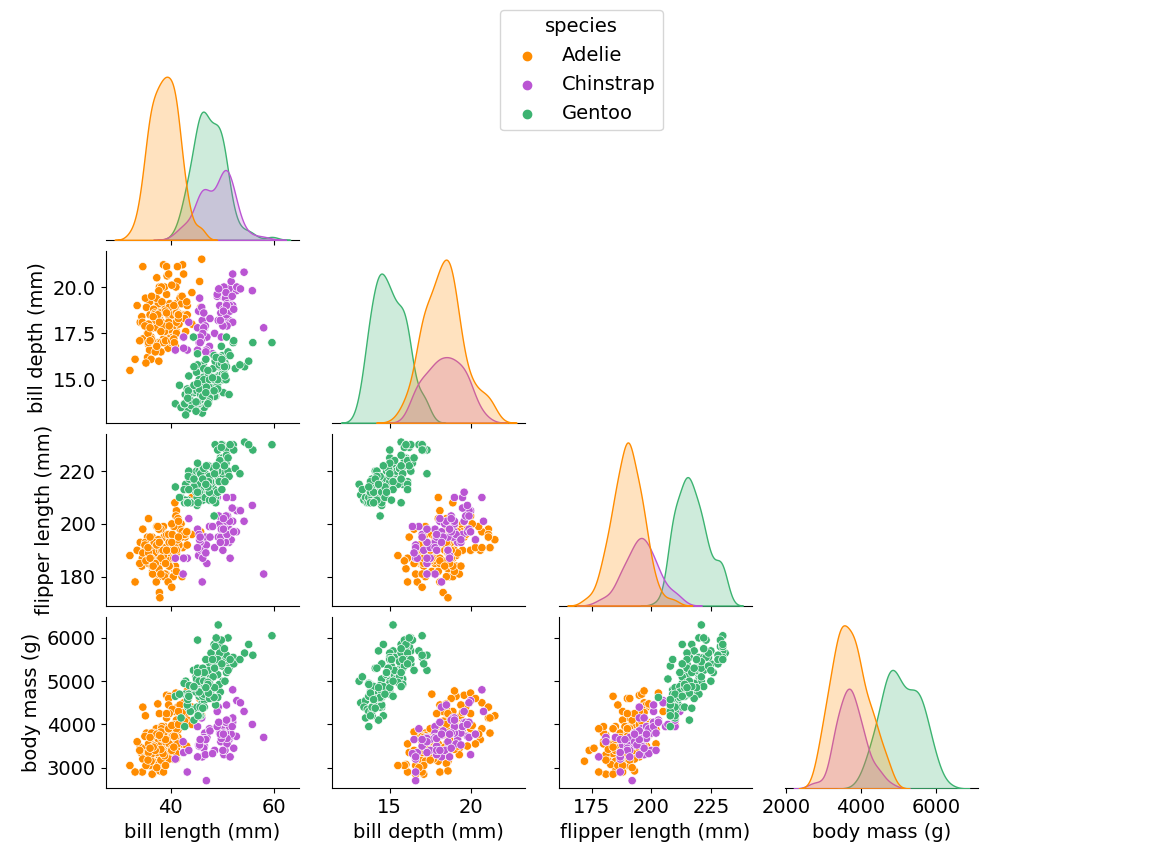
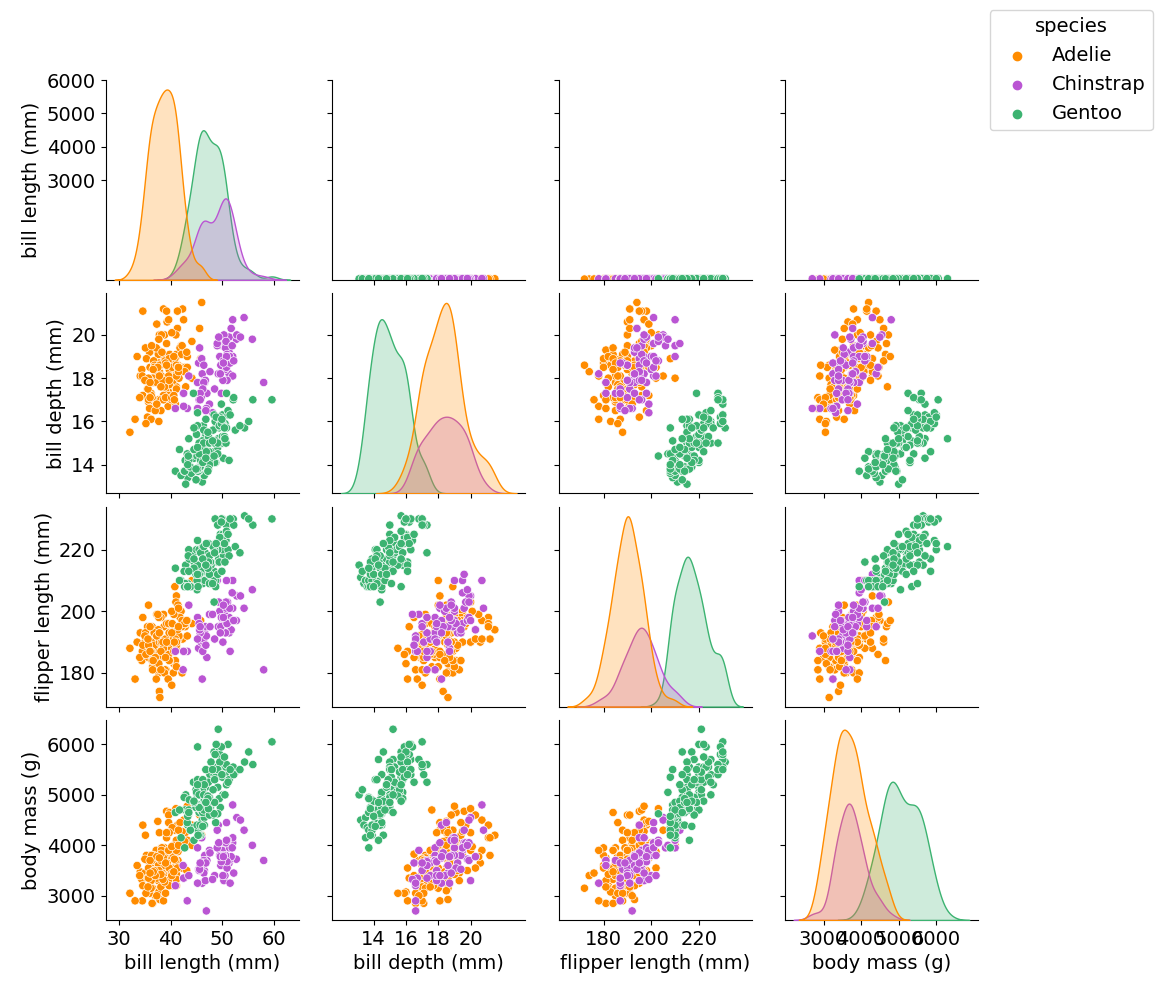
report update

diff --git a/code/num_sex.py b/code/num_sex.py
@@ -3,21 +3,113 @@ from globals import *
 # needed for dictionary
 import ast 
 
-def num_sex(local_df):
+def num_sex(local_df, custom_colors):
 
   # Create a figure and axes
   fig, axs = plt.subplots(2, 2, figsize=(12, 10))
   
   sns.set(font_scale=1)
+  
+  # set up the colors
+  # custom_colors = {'Adelie': 'darkorange', 'Chinstrap': 'mediumorchid', 'Gentoo': 'mediumseagreen'}
+
+  # palette_subplot00 = {
+  #   'Adelie': {'Male': custom_colors['Adelie'], 'Female': 'moccasin'},
+  #   'Chinstrap': {'Male': custom_colors['Adelie'], 'Female': 'moccasin'},    
+  #   'Gentoo': {'Male': custom_colors['Adelie'], 'Female': 'moccasin'}
+  # }
+
+  # palette_subplot00 = {
+  #   'Adelie_Male': 'darkorange',
+  #   'Adelie_Female': 'moccasin',
+  #   'Chinstrap_Male': 'mediumorchid',
+  #   'Chinstrap_Female': 'moccasin',
+  #   'Gentoo_Male': 'mediumseagreen',
+  #   'Gentoo_Female': 'moccasin'
+  # }
+
+  local_custom_colors = ['darkorange', 'darkorange', 'darkorange', 'moccasin', 'darkmagenta', 'mediumorchid', 'mediumseagreen', 'lightgreen']
+
+  # # Define custom colors for each species
+  # species_colors = {
+  #     'Adelie': 'darkorange',
+  #     'Chinstrap': 'mediumorchid',
+  #     'Gentoo': 'mediumseagreen'
+  # }
+
+  # sex_colors = {
+  #     'Male': 'blue',
+  #     'Female': 'moccasin'
+  # }
+
+  # # Create a dictionary to map each combination of species and sex to a color
+  # species_sex_colors = {(species, sex): (species_colors[species], sex_colors[sex]) for species in local_df['species'].unique() for sex in local_df['sex'].unique()}
+
+
+  # # Create a list of colors based on the mapping
+  # palette = [species_sex_colors[(row['species'], row['sex'])] for _, row in local_df.iterrows()]
+
+  # # Get unique species and sex values from the DataFrame
+  # unique_species = local_df['species'].unique()
+  # unique_sex = local_df['sex'].unique()
+  # print("Unique species values:", local_df['species'].unique())
+  # print("Unique sex values:", local_df['sex'].unique())
+
+  # # # Create a palette dictionary dynamically
+  # # palette_subplot00 = {}
+  # # for species in unique_species:
+  # #     palette_subplot00[species] = {}
+  # #     for sex in unique_sex:
+  # #         palette_subplot00[species][sex] = 'blue'  # Assign a default color here, you can change it later
+
+  # # Assign specific colors based on your preference
+  # # palette_subplot00['Adelie']['Male'] = 'darkorange'
+  # # palette_subplot00['Adelie']['Female'] = 'moccasin'
+  # # palette_subplot00['Chinstrap']['Male'] = 'mediumorchid'
+  # # palette_subplot00['Chinstrap']['Female'] = 'moccasin'
+  # # palette_subplot00['Gentoo']['Male'] = 'mediumseagreen'
+  # # palette_subplot00['Gentoo']['Female'] = 'moccasin'
+
+
+  # # palette_subplot00 = {
+  # #   'Adelie': {'Male': 'darkorange', 'Female': 'moccasin'},
+  # #   'Chinstrap': {'Male': 'mediumorchid', 'Female': 'moccasin'},    
+  # #   'Gentoo': {'Male': 'mediumseagreen', 'Female': 'moccasin'}
+  # # }
 
   # Plot the first boxplot on the first subplot
-  f = sns.boxplot(x=local_df.species, y=local_df.body_mass_g, hue=local_df.sex, ax=axs[0, 0])
+  # sns.boxplot(x=local_df.species, y=local_df.body_mass_g, hue=local_df.sex, palette=palette_subplot00, ax=axs[0, 0])
+  # Plot the boxplot with the custom colors
+  # sns.boxplot(x='species', y='body_mass_g', hue='sex', data=local_df, palette=palette, ax=axs[0, 0])
+  import matplotlib.patches as patches
+  ax = sns.boxplot(x='species', y='body_mass_g', hue='sex', data=local_df, ax=axs[0, 0])
+  print(ax.patches)
+
   axs[0, 0].set_title(' ', fontsize = 14)
   axs[0, 0].set_xlabel(" ", fontsize = 14, x=0.5, labelpad=0)
   axs[0, 0].set_ylabel("body mass (g)", fontsize = 15)
   axs[0, 0].set_xticklabels(axs[0, 0].get_xticklabels(), size = 15)
   axs[0, 0].set_yticks(axs[0, 0].get_yticks())
   axs[0, 0].set_yticklabels(axs[0, 0].get_yticklabels(), size = 12)
+
+  for xtick in axs[0, 0].get_xticks():
+    axs[0, 0].text(xtick,0.2,"hello", horizontalalignment='center',size='x-small',color='w',weight='semibold')
+
+#  axs[0, 0].add_patch(patches.Rectangle((0.1, 0.1), 0.5, 0.5, alpha=0.1,facecolor='red',label='Label'))
+#  centerx = centery = 0.1 + 0.5/2 # obviously use a different formula for different shapes
+  # axs[0, 0].text(0.1, 0.1, 'lalala')
+
+  # Get the number of unique species
+  num_species = len(local_df['species'].unique())
+
+  # Add labels to the boxes
+  for i, box in enumerate(ax.artists):
+      # Calculate the x position of the box
+      x = i % num_species
+      # Calculate the median value of the box
+      y = ax.lines[i * 6 + 2].get_ydata().mean()
+      # Add the label
+      ax.text(x, y, f'Box {i+1}', ha='center', va='center', color='black', fontsize=10)
 
   # Plot the second boxplot on the second subplot
   sns.boxplot(x=local_df.species, y=local_df.bill_length_mm, hue=local_df.sex, ax=axs[0, 1])

diff --git a/code/main.py b/code/main.py
@@ -49,7 +49,7 @@ clean_df = clean(df)
 # species(clean_df, custom_colors)
 
 # plot numerical features against sex
-# num_sex(clean_df)
+num_sex(clean_df, custom_colors)
 
 # show the species on each of the islands where the penguins live
 # islands(clean_df, custom_colors)
@@ -58,7 +58,7 @@ clean_df = clean(df)
 # island_confounding(clean_df)
 
 # pairwise plot of the numerial variables
-# pairwise_numericals(clean_df, custom_colors)
+pairwise_numericals(clean_df, custom_colors)
 
 # get a version of the df with the numerical features to have a mean of zero and standard deviation of unity
 # stand_df = standardize(df)

diff --git a/code/pairwise_numericals.py b/code/pairwise_numericals.py
@@ -63,7 +63,7 @@ def pairwise_numericals(local_df, custom_colors):
   # to change the legends location
   handles = g._legend_data.values()
   labels = g._legend_data.keys()
-  g.figure.legend(handles=handles, labels=labels, title='species', loc='upper center', ncol=1)
+  g.figure.legend(handles=handles, labels=labels, title='species', loc='upper right', ncol=1)
   # g.figure.legend(handles=handles, labels=labels, loc='lower center', ncol=3)
   # g.figure.legend(handles=handles, labels=labels, loc='upper left', ncol=1)
   g.figure.subplots_adjust(top=0.92, bottom=0.08)
